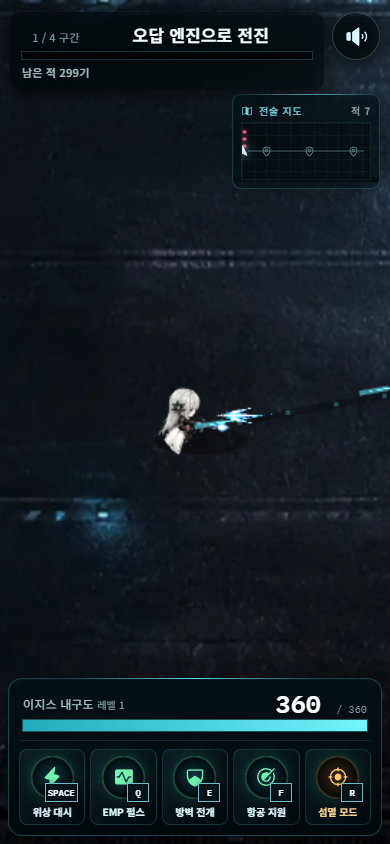
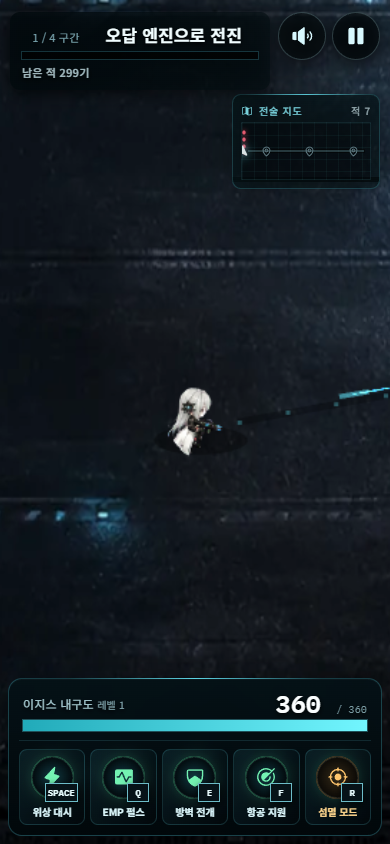
feat: improve portrait mobile convenience

diff --git a/game/src/styles.css b/game/src/styles.css
@@ -3503,6 +3503,33 @@ kbd {
 }
 .expedition-sound svg { width: 18px; height: 18px; }
 
+.expedition-hud-actions {
+  display: flex;
+  grid-column: 3;
+  flex-direction: column;
+  align-items: center;
+  gap: 7px;
+  pointer-events: auto;
+}
+
+.expedition-pause-toggle {
+  display: grid;
+  width: 38px;
+  height: 38px;
+  border: 1px solid rgba(174, 225, 234, 0.22);
+  border-radius: 50%;
+  place-items: center;
+  color: #d8f9ff;
+  background: rgba(2, 8, 10, 0.68);
+  backdrop-filter: blur(8px);
+  cursor: pointer;
+}
+
+.expedition-pause-toggle svg { width: 18px; height: 18px; }
+.expedition-pause-toggle:focus-visible,
+.expedition-sound:focus-visible { border-color: #8ff2ff; outline: 3px solid rgba(105, 235, 252, 0.2); }
+.expedition-pause-toggle:disabled { opacity: 0.34; cursor: default; }
+
 .expedition-combat-dock {
   position: absolute;
   z-index: 13;
@@ -4626,6 +4653,9 @@ kbd {
   width: 12px;
   height: 12px;
 }
+
+.intro-mobile-controls,
+.region-mobile-swipe-hint { display: none; }
 
 .intro-music-toggle {
   display: inline-flex;
@@ -8396,4 +8426,83 @@ kbd,
   .campaign-shell .region-sortie-intel dd { font-size: 12px; }
   .region-sortie-command-footer { position: sticky; bottom: 0; padding-top: 10px; background: rgba(2, 10, 14, 0.96); }
   .region-sortie-command-footer .region-sortie-launch { width: 100%; min-height: 62px; font-size: 15px; }
+}
+
+/* Portrait-mobile convenience controls --------------------------------- */
+@media (max-width: 720px) and (orientation: portrait) {
+  button,
+  [role="button"] { -webkit-tap-highlight-color: transparent; }
+
+  .intro-minimal-controls { display: none; }
+  .intro-mobile-controls {
+    display: grid;
+    width: 100%;
+    margin-top: 14px;
+    grid-template-columns: repeat(2, minmax(0, 1fr));
+    gap: 8px;
+  }
+  .intro-mobile-controls span,
+  .intro-mobile-controls strong {
+    display: grid;
+    min-height: 48px;
+    padding: 8px 9px;
+    grid-template-columns: 24px minmax(0, 1fr);
+    align-items: center;
+    gap: 2px 7px;
+    border: 1px solid rgba(126, 226, 241, 0.2);
+    color: #dffbff;
+    background: rgba(2, 10, 14, 0.58);
+  }
+  .intro-mobile-controls svg { grid-row: 1 / 3; width: 20px; height: 20px; color: #68e9fb; }
+  .intro-mobile-controls b { min-width: 0; font-size: 11px; line-height: 1.25; }
+  .intro-mobile-controls small { color: #85aab2; font-size: 10px; }
+  .intro-mobile-controls strong { grid-column: 1 / -1; min-height: 42px; font-size: 11px; }
+
+  .region-mobile-swipe-hint {
+    position: absolute;
+    z-index: 7;
+    top: max(184px, calc(env(safe-area-inset-top) + 174px));
+    left: 50%;
+    display: flex;
+    min-height: 42px;
+    padding: 8px 14px;
+    align-items: center;
+    gap: 10px;
+    border: 1px solid rgba(102, 231, 249, 0.34);
+    border-radius: 999px;
+    color: #d9faff;
+    background: rgba(2, 12, 16, 0.8);
+    box-shadow: 0 8px 24px rgba(0, 0, 0, 0.42);
+    font-size: 12px;
+    font-weight: 800;
+    transform: translateX(-50%);
+    pointer-events: none;
+    backdrop-filter: blur(8px);
+  }
+  .region-mobile-swipe-hint svg { width: 16px; height: 16px; color: #72edff; }
+  .region-select-screen:not(.is-cluster-map) .region-card-grid {
+    -webkit-overflow-scrolling: touch;
+    touch-action: pan-x;
+  }
+
+  .expedition-hud { grid-template-columns: minmax(0, 1fr) auto; }
+  .expedition-hud-actions { grid-column: 2; flex-direction: row; gap: 6px; }
+  .expedition-hud-actions .expedition-sound,
+  .expedition-pause-toggle { width: 48px; height: 48px; }
+  .expedition-hud-actions .expedition-sound svg,
+  .expedition-pause-toggle svg { width: 22px; height: 22px; }
+
+  .expedition-pause { padding: max(12px, env(safe-area-inset-top)) 10px max(12px, env(safe-area-inset-bottom)); }
+  .expedition-pause-card { width: 100%; padding: 24px 18px; }
+  .expedition-pause-card > small { font-size: 10px; letter-spacing: 0.12em; }
+  .expedition-pause-card h2 { margin-top: 8px; font-size: 36px; }
+  .expedition-pause-card p { margin-top: 8px; font-size: 13px; line-height: 1.45; }
+  .expedition-pause-card > div { margin-top: 20px; grid-template-columns: 1fr; gap: 10px; }
+  .expedition-pause-card button { min-height: 56px; padding: 11px 18px; grid-template-columns: 24px 1fr; gap: 12px; font-size: 14px; white-space: nowrap; }
+  .expedition-pause-card button svg { width: 21px; height: 21px; }
+  .expedition-pause-card button kbd { display: none; }
+
+  .region-sortie-close { min-height: 48px; padding: 9px 12px; font-size: 13px; }
+  .region-sortie-close kbd { display: none; }
+  .region-sortie-dialog { overscroll-behavior: contain; -webkit-overflow-scrolling: touch; }
 }

diff --git a/game/src/App.jsx b/game/src/App.jsx
@@ -10,6 +10,7 @@ import {
   MapTrifold,
   HouseLine,
   NavigationArrow,
+  Pause,
   Play,
   Pulse,
   Robot,
@@ -737,6 +738,12 @@ function InitialAssetLoadingScreen({ progress = 0, label = "초기 작전 자료
   );
 }
 
+function triggerTouchFeedback(pattern = 12) {
+  if (typeof navigator === "undefined" || typeof navigator.vibrate !== "function") return;
+  if (typeof window !== "undefined" && !window.matchMedia?.("(pointer: coarse)").matches) return;
+  navigator.vibrate(pattern);
+}
+
 function IntroScreen({ assets, assetError, onStart, musicPlaying, onToggleMusic }) {
   return (
     <main className="overload-intro intro-cinematic">
@@ -782,6 +789,11 @@ function IntroScreen({ assets, assetError, onStart, musicPlaying, onToggleMusic 
           <span><kbd>스페이스</kbd> 대시</span>
           <span><kbd>Q/E/F/R</kbd> 액티브</span>
           <strong><Pulse weight="fill" /> 기본 공격 상시 자동</strong>
+        </div>
+        <div className="intro-mobile-controls" aria-label="모바일 게임 조작">
+          <span><NavigationArrow weight="fill" /><b>화면을 누른 채 드래그</b><small>이동</small></span>
+          <span><Crosshair weight="fill" /><b>가까운 적 자동 추적</b><small>조준·사격</small></span>
+          <strong><Lightning weight="fill" /> 하단 스킬 아이콘을 눌러 능력 사용</strong>
         </div>
       </section>
     </main>
@@ -1992,14 +2004,17 @@ function PhaserArenaScreen({ assets, regionId, region, combatBonuses, mainWeapon
   }, []);
 
   const activateDash = useCallback(() => {
+    triggerTouchFeedback(12);
     controllerRef.current?.dash();
   }, []);
 
   const activateAbility = useCallback((slot) => {
+    triggerTouchFeedback(14);
     controllerRef.current?.activateAbility?.(slot);
   }, []);
 
   const activateTag = useCallback(() => {
+    triggerTouchFeedback([10, 20, 10]);
     controllerRef.current?.tag?.();
   }, []);
 
@@ -2026,6 +2041,14 @@ function PhaserArenaScreen({ assets, regionId, region, combatBonuses, mainWeapon
   }, [advanceDialogue, dialogue, preparing]);
 
   const rewardOpen = Boolean(hud?.rewards?.options?.length);
+
+  const pauseCombat = useCallback(() => {
+    if (preparing || pausedRef.current || combatTutorialActiveRef.current || dialogue || rewardOpen) return;
+    triggerTouchFeedback(10);
+    pausedRef.current = true;
+    setPaused(true);
+    controllerRef.current?.setSuspended(true);
+  }, [dialogue, preparing, rewardOpen]);
 
   useEffect(() => {
     if (!showCombatTutorial || combatTutorialHandledRef.current || combatTutorialStep >= 0) return;
@@ -2061,6 +2084,7 @@ function PhaserArenaScreen({ assets, regionId, region, combatBonuses, mainWeapon
 
   const resumeCombat = useCallback(() => {
     if (combatTutorialActiveRef.current) return;
+    triggerTouchFeedback(8);
     pausedRef.current = false;
     setPaused(false);
     controllerRef.current?.setSuspended(false);
@@ -2151,9 +2175,20 @@ function PhaserArenaScreen({ assets, regionId, region, combatBonuses, mainWeapon
                 <div><i style={{ width: `${routeRatio * 100}%` }} /></div>
                 <b>{hud?.boss ? `체력 ${Math.ceil(hud.boss.hp || 0)}` : `남은 적 ${hud?.enemiesRemaining ?? 0}기`}</b>
               </div>
-              <button type="button" className="expedition-sound" onClick={onToggleSound} aria-label={soundEnabled ? "전체 사운드 끄기" : "전체 사운드 켜기"}>
-                {soundEnabled ? <SpeakerHigh weight="fill" /> : <SpeakerSlash />}
-              </button>
+              <div className="expedition-hud-actions" aria-label="전투 편의 기능">
+                <button type="button" className="expedition-sound" onClick={onToggleSound} aria-label={soundEnabled ? "전체 사운드 끄기" : "전체 사운드 켜기"}>
+                  {soundEnabled ? <SpeakerHigh weight="fill" /> : <SpeakerSlash />}
+                </button>
+                <button
+                  type="button"
+                  className="expedition-pause-toggle"
+                  onClick={pauseCombat}
+                  disabled={Boolean(dialogue || rewardOpen || combatTutorialStep >= 0)}
+                  aria-label="전투 일시정지"
+                >
+                  <Pause weight="fill" />
+                </button>
+              </div>
             </div>
             <ExpeditionCombatDock
               hud={hud}

diff --git a/game/src/ui/campaign/CampaignScreens.jsx b/game/src/ui/campaign/CampaignScreens.jsx
@@ -846,6 +846,11 @@ export function RegionSelectScreen({ regions, clusters = [], campaign, assets, w
         <h1>{selectedCluster ? `${selectedCluster.koreanName} · 구역 선택` : "작전 권역 선택"}</h1>
         <p>{selectedCluster ? "권역 안의 개별 구역을 선택해 상세 정보를 확인하세요." : "먼저 3개 구역이 묶인 상위 권역을 선택하세요."}</p>
       </header>
+      {selectedCluster && !selectedRegion && (
+        <div className="region-mobile-swipe-hint" role="status">
+          <ArrowLeft weight="bold" /><span>좌우로 밀어 구역 선택</span><ArrowRight weight="bold" />
+        </div>
+      )}
       {!selectedCluster ? (
         <section className="region-world-map" aria-label="작전 권역 월드맵">
           {(clusters || []).map((cluster) => {

diff --git a/game/AGENTS.md b/game/AGENTS.md
@@ -61,6 +61,7 @@ Build app UI in `src/`. Keep `.openai/hosting.json`, `worker/index.js`, `scripts
 - Mobile gameplay is portrait-first and must never be blocked by an orientation guard. Keep the deterministic logical world at 1280×720, but use Phaser `ENVELOP` presentation for portrait touch devices, maintain a player-centered camera, and let the DOM HUD honor all safe-area insets. Landscape browser play remains supported as a secondary layout.
 - On phone portrait, movement owns the otherwise empty combat surface while buttons/dialogs remain excluded from joystick capture. Level-up and result overlays must fit within `100dvh` using bounded internal scrolling; reward cards become a readable vertical list, result actions may stack, and narrative advancement keeps a visible Korean label with at least a 50px touch height. Keep the HP bar and six compact active controls above the bottom safe area, and keep the tactical minimap below the top objective without covering combat buttons.
 - Phone portrait menus are authored surfaces, never scaled desktop compositions. Keep the title at 58px or larger, primary touch targets at least 44px high, save slots in one readable column, world-map hotspots at least 250px wide with 18px or larger names, and regional detail cards as horizontally snapping single-card pages. Portrait combat fills `100dvh` without letterboxing, uses a presentation-only 1.12 route/1.06 boss camera factor, keeps the objective at 16px or larger, and shows the Korean ability names beneath the bottom icons. These presentation values must not alter the deterministic simulation, collision, spawn, aim, or damage rules.
+- Phone portrait must explain its own touch controls instead of showing WASD/mouse copy. Keep a visible 48px-or-larger pause control beside sound, single-column pause actions with unbroken Korean labels, and an explicit swipe affordance above horizontally snapping regional cards. Optional vibration feedback may acknowledge dash, tag, active skills, pause, and resume only on coarse-pointer devices; unsupported browsers must remain a silent no-op.
 - Runtime raster assets must stay display-size optimized. Preserve full-resolution sources under `reference/source-assets/` instead of loading them into the game or copying unused images into the production build.
 - Phaser remains combat-entry dynamic-loaded. `BootScene` may register only `COMMON_GAME_ASSETS` plus the selected route returned by `getGameAssetsForRegion(selectedRegionId)`; load `getBossGameAssetsForRegion(selectedRegionId)` only when the automatic clear warning/panic transition begins, never while hostiles remain. The chapter-1 trace atlas is wrong-engine-only and missing regional IDs fall back safely. Preserve the non-overlapping Vite chunks for `phaser-vendor`, `overload-runtime`, `overload-view`, `overload-simulation`, and `overload-assets`; do not collapse them back into the former approximately 1.8MB `createOverloadGame` chunk or modulepreload Phaser on the title screen.
 - Maintain adaptive `CINEMATIC / BALANCED / PERFORMANCE` presentation tiers with live frame-time hysteresis while the authoritative simulation remains a deterministic 60Hz fixed step. Keep the logical/CSS game coordinate space at 1280×720; use CINEMATIC 1280×720 at 60fps, BALANCED 1050×590 at 45fps, and PERFORMANCE 896×504 at 30fps for WebGL backing size and presentation cadence. A lower render cadence must never reduce input sampling, combat ticks, collision frequency, spawn timing, cooldown timing, or boss geometry updates.

diff --git a/game/design-qa.md b/game/design-qa.md
@@ -830,3 +830,20 @@ final result: passed
   따라 전체 테스트와 production build는 실행하지 않았습니다.
 
 final result: passed
+
+### Iteration 36 — complete · 모바일 세로 편의성 및 접근성 보강
+
+- Touch-first guidance: 모바일 타이틀에서 데스크톱 WASD·마우스 문구를 숨기고 화면 드래그 이동,
+  근접 적 자동 조준, 하단 스킬 아이콘 사용을 48px 터치 카드로 설명합니다. 하위 구역의 가로 스냅
+  카드 위에는 42px `좌우로 밀어 구역 선택` 안내를 추가했습니다.
+- In-combat convenience: 사운드 버튼 옆에 48×48px 일시정지 버튼을 상시 배치하고 대화·레벨업·
+  튜토리얼 중에는 중복 입력을 차단합니다. 세로 일시정지 화면은 36px 제목, 14px 본문 버튼과
+  56px 이상 한 열 액션으로 바꿔 `처음부터`와 `헤이븐-09 기지로`가 줄바꿈되지 않습니다.
+  대시·태그·Q/E/F/R·일시정지/재개는 coarse pointer에서만 짧은 선택적 진동을 사용합니다.
+- Essential verification: 모바일 세로·Phaser HUD·캠페인 UI 집중 테스트 21/21과 TypeScript 검사가
+  통과했습니다. Edge 390×844 실제 터치 QA에서 모바일 조작 카드 48.75/48.75/42px, 스와이프 안내
+  42px 이상, 일시정지 버튼 48×48px, 일시정지 액션 56px 이상, 가로 overflow 0px, 조이스틱 이동,
+  console/page/network 오류 0을 확인했습니다. 전체 테스트와 production build는 사용자의 빠른 반복
+  지침에 따라 실행하지 않았습니다.
+
+final result: passed

diff --git a/game/README.md b/game/README.md
@@ -203,6 +203,10 @@ HAVEN-09 NPC 대화는 `Space`를 한 번 누를 때 한 줄씩 진행하고 마
 출격 승인은 하단 고정 대형 버튼으로 제공합니다. 전투는 검은 레터박스 없이 화면 전체 높이를 채우고
 상단 목표/미니맵, 하단 체력/스킬 도크 사이를 실제 플레이 공간으로 사용합니다. 세로 전투 카메라는
 표시 크기만 약간 확대하며 게임 규칙과 판정은 1280×720 결정론 시뮬레이션을 그대로 사용합니다.
+타이틀은 WASD 대신 드래그 이동·자동 조준·하단 스킬 사용법을 안내하고, 구역 카드는 좌우 스와이프
+안내를 표시합니다. 전투 우상단에는 48px 일시정지 버튼을 항상 제공하며, 세로 일시정지 메뉴는
+줄바꿈 없는 한 열 버튼으로 구성합니다. 지원하는 터치 기기에서는 대시·태그·스킬·일시정지 입력에만
+짧은 진동 피드백을 제공하고 진동 API가 없는 브라우저에서는 조용히 생략합니다.
 데스크톱의 포인터 직접 조준과 가로 화면 지원은 그대로 유지합니다.
 
 향후 Android/iOS 네이티브 패키징, 스토어 심사, 저장소·오디오·생명주기 어댑터 계획은
